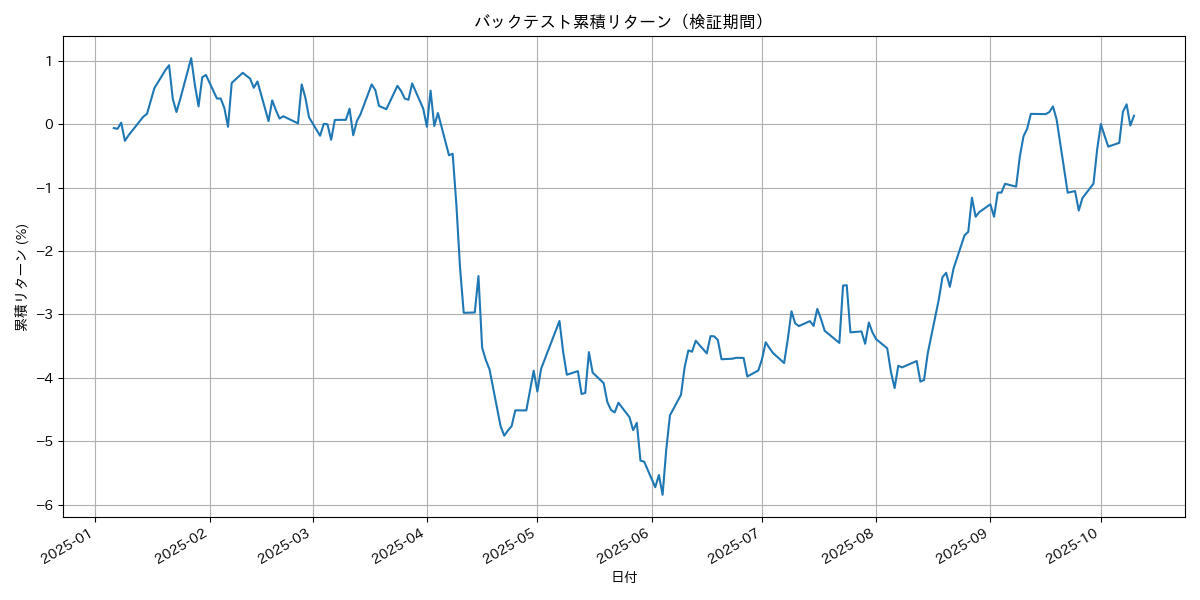
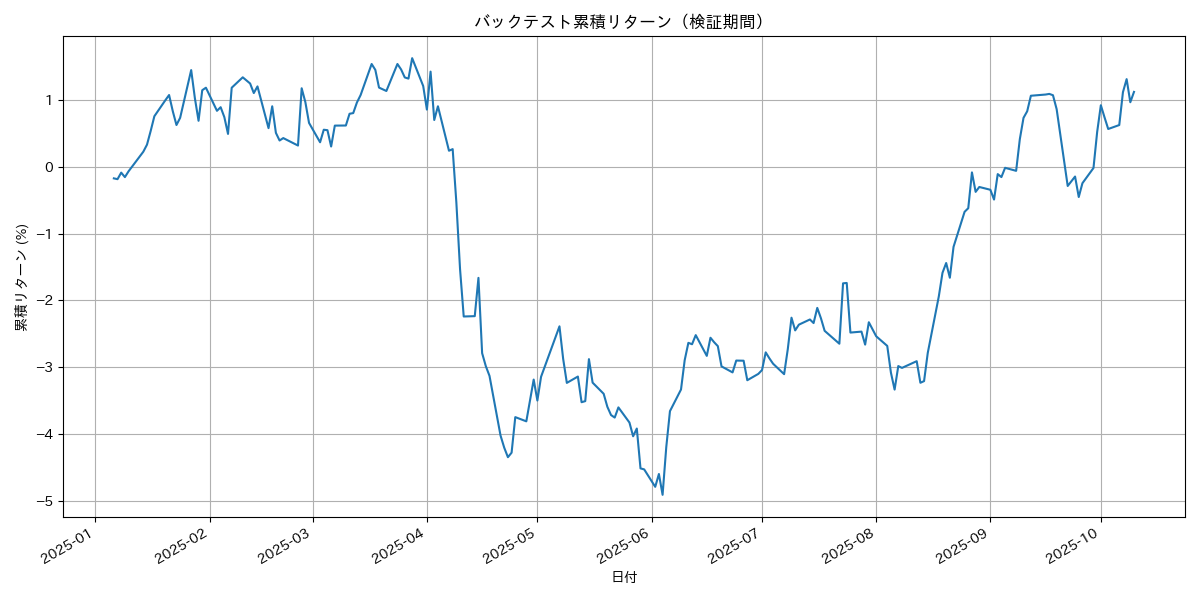
Update
制作物を増やした

diff --git a/works.html b/works.html
@@ -7,7 +7,7 @@
         body { font-family: sans-serif; background-color: #1a1a1a; color: #ffffff; text-align: center; padding: 2em; }
         .container { max-width: 800px; margin: 0 auto; }
         h1 { border-bottom: 2px solid #ffffff; padding-bottom: 10px; margin-bottom: 30px; }
-        h2 { margin-top: 40px; text-align: left; } /* h2タグ用のスタイルを追加 */
+        h2 { margin-top: 40px; text-align: left; }
         .video-wrapper { position: relative; padding-bottom: 56.25%; height: 0; overflow: hidden; max-width: 100%; background: #000; margin: 20px 0; }
         .video-wrapper iframe { position: absolute; top: 0; left: 0; width: 100%; height: 100%; }
         a.back-link { display: inline-block; margin-top: 30px; color: #ffffff; text-decoration: none; border: 1px solid #ffffff; padding: 10px 20px; border-radius: 5px; transition: all 0.2s; }
@@ -18,14 +18,24 @@
     <div class="container">
         <h1>制作物 (Works)</h1>
 
-        <h2>AI Cat Detector App (Flutter)</h2>
+        <h2>3DGAME: NOT LIVING(制作中)</h2>
         <div class="video-wrapper">
-            <iframe width="560" height="315" src="https://www.youtube.com/embed/GqMTzC2efkE" title="YouTube video player" frameborder="0" allow="accelerometer; autoplay; clipboard-write; encrypted-media; gyroscope; picture-in-picture" allowfullscreen></iframe>
+            <iframe width="560" height="315" src="https://www.youtube.com/embed/ptEtA7U1VuQ" title="YouTube video player" frameborder="0" allow="accelerometer; autoplay; clipboard-write; encrypted-media; gyroscope; picture-in-picture" allowfullscreen></iframe>
         </div>
 
-        <h2>新しい制作物のタイトル</h2>
+        <h2>2DGAME: NOT LIVING(リメイク前)</h2>
+        <div class="video-wrapper">
+            <iframe width="560" height="315" src="https://www.youtube.com/embed/VkCh6uL4mBs" title="YouTube video player" frameborder="0" allow="accelerometer; autoplay; clipboard-write; encrypted-media; gyroscope; picture-in-picture" allowfullscreen></iframe>
+        </div>
+
+        <h2>c++による直観操作のRPG風バトル</h2>
         <div class="video-wrapper">
             <iframe width="560" height="315" src="https://www.youtube.com/embed/ersTGgBYPH4" title="YouTube video player" frameborder="0" allow="accelerometer; autoplay; clipboard-write; encrypted-media; gyroscope; picture-in-picture" allowfullscreen></iframe>
+        </div>
+        
+        <h2>pythonの株価予測アプリ</h2>
+        <div class="video-wrapper">
+            <iframe width="560" height="315" src="https://www.youtube.com/embed/L09rMfIWqDc" title="YouTube video player" frameborder="0" allow="accelerometer; autoplay; clipboard-write; encrypted-media; gyroscope; picture-in-picture" allowfullscreen></iframe>
         </div>
 
         <a href="index.html" class="back-link">トップページに戻る</a>
